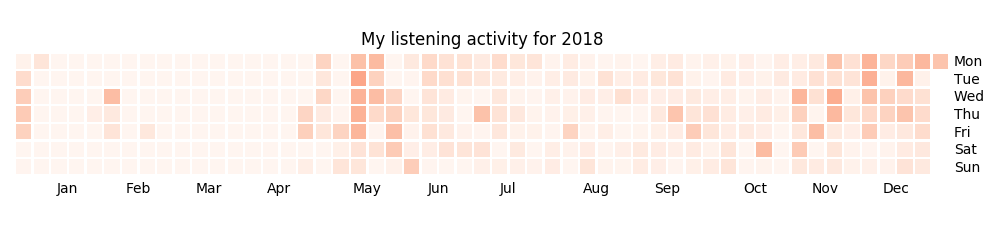
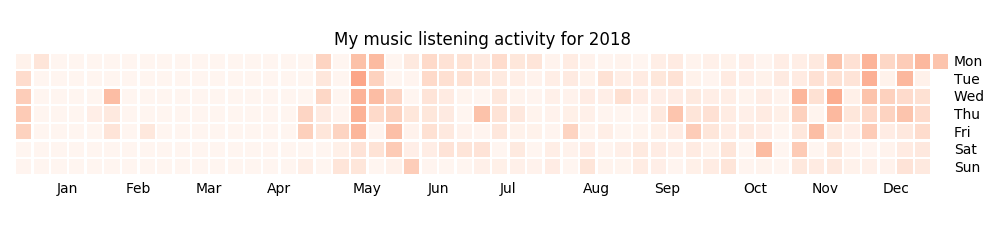
Few minor updates

Changed region(s): [[0.31, 0.1223, 0.651, 0.214]]

diff --git a/quantified-mind.html b/quantified-mind.html
@@ -12,7 +12,7 @@
         <meta name="generator" content="hakyll">
         <meta name="language" content="English">
         
-        <meta name="keywords" content="cognitive quantified-self selenium">
+        <meta name="keywords" content="quantified-self cognitive selenium">
         
         <!-- TODO concat with keywords tags; also need to make comma separated? -->
 
@@ -63,17 +63,24 @@
 
     <section class="content">
     <p><a href="http://www.quantified-mind.com/about">Quantified Mind</a> is a website which provides a handful of cognitive tests. It lets you choose a bunch of tests and you can run them whenever you wish, adding quantitative variables you are measuring alongside (e.g. hours of sleep, or cups of coffee you drank) or just arbitrary notes. <a href="http://quantifiedself.com/wp-content/uploads/2012/04/QM_collage.jpg">Here</a> is how it looks like.</p>
-<p>Why is it interesting? If you are like me and don’t feel much obvious subjective effects of conventional stimulants, sleep or exercise, it would be great to have some objective measure in case the effects are subtle but present. For you it could be saving half an hour of sleep per night by using melatonin, or realizing coffee doesn’t have effect on your cognitive performance, or something else.</p>
-<p>That sounded pretty interesting to me, and I started doing some tests (simple reaction time, visual matching, sorting and 1-back). However, given that effects are subtle in the first place, I wasn’t expecting to get any insights by gazing at collected data, so I needed to make sure I can export my experiments to run some sort of regression on them later.</p>
-<p>To my disappointment, when I ran thirty or something sessions and downloaded the CSV, it didn’t have error rate/reaction time, but you are only getting some magical ‘score’. It was unclear what it meant from the FAQ so I emailed the authors and got a response:</p>
+<p>Why is it interesting? If you are <a href="./tags.html#quantified-self">like me</a> and don’t feel any obvious/significant subjective effects of conventional stimulants, sleep or exercise, it would be great to have some objective measure in case the effects are subtle but present. For you it could be saving half an hour of sleep per night by using melatonin, or realizing coffee doesn’t have effect on your cognitive performance, or something else.</p>
+<p>That sounded pretty interesting to me, and I started taking some tests (simple reaction time, visual matching, sorting and 1-back). However, given that effects are subtle in the first place, I wasn’t expecting to get any insights by gazing at collected data, so I needed to make sure I can export my experiments to run some sort of regression on them later.</p>
+<p>To my disappointment, when I ran thirty or something sessions and exported the CSV, it didn’t have error rate/reaction time, but you are only getting some magical ‘score’. It was unclear what it meant from the FAQ so I emailed the authors and got a response:</p>
 <pre><code>As for scores - it's a calculation that involves everything in a test, so for simple reaction time it involves both reaction times
 and accuracy. 
 The actual formulas aren't available, but the instructions are always simple: go for accuracy first, and try to be as fast as you can
 without sacrificing accuracy.</code></pre>
-<p>“Formulas aren’t available” was quite unsatisfactory to me. What are they actually measuring? So before carrying on and doing more tests I tried to reverse engineer the model.</p>
+<p>“Formulas aren’t available” was quite unsatisfactory to me. What are they actually measuring? So before carrying on and collecting more data I tried to reverse engineer the model.</p>
 <h1 id="implementation">Implementation</h1>
-<p>The idea was simple: choose couple of tests that are easy to automate. Luckily, the website is not using flash and not very heavy on javascript or obfuscation, so interacting with elements via javascript was fairly easy. In essence, I’m varying average reaction time (delay) and number of errors (which I make deliberately in the script), and inject the script into chrome via Selenium. Then I record the scores for further analysis.</p>
-<p>If you wanna experiment by yourself, <a href="https://github.com/karlicoss/qm-reverse-engineering">here’s</a> the repository and if you don’t feel like running the scripts for a day to collect data, I uploaded it to <a href="https://github.com/karlicoss/qm-reverse-engineering/releases">releases</a>.</p>
+<p>The idea was simple: choose couple of tests that are easy to <strong>automate</strong> via Selenium Webdriver. Automation was necessary to collect lots of data corresponding to different input performance characteristics.</p>
+<p>In essence:</p>
+<ul>
+<li>I’m varying <strong>average reaction time</strong> (delay) and <strong>number of errors</strong> (which I make deliberately)</li>
+<li>then I <a href="https://github.com/karlicoss/qm-reverse-engineering/blob/master/js_scripts.py">generate</a> a bit of Javascript and inject it into the browser via Selenium.</li>
+<li>once the automated test session is finished, I recorded the score for further analysis.</li>
+</ul>
+<p>Thankfully, the website is not using flash and is not heavy on obfuscation, so interacting with elements via javascript was fairly easy.</p>
+<p>If you wanna experiment by yourself, <a href="https://github.com/karlicoss/qm-reverse-engineering">here’s</a> the repository and if you don’t feel like running the scripts for a day to collect data, I also uploaded it to <a href="https://github.com/karlicoss/qm-reverse-engineering/releases">releases</a>.</p>
 <h1 id="tests">Tests</h1>
 <p>I’ve chosen “Simple reaction time” and “Visual matching”. From the <a href="http://www.quantified-mind.com/science">“science”</a> section:</p>
 <pre><code>The first is “Simple Reaction Time,” which assesses how quickly a person can respond to a single stimulus (a circle that turns 
@@ -90,12 +97,18 @@ the two grids are identical.</code></pre>
 <h1 id="observations">Observations</h1>
 <ul>
 <li><p>Same score could mean different things; you can see it from the plots if you draw horizontal lines, they would intersect multiple curves corresponding to different delays.</p>
-<p>So, for instance, if you get score 600 on visual matching, that could mean that you did the test with 880ms reaction and 0 errors, or with 840ms reaction and 2 errors or 760ms reaction and 4 errors. These are fairly different results and even though it’s good to have some sort of aggregate score, it’s also useful to distinguish. E.g. maybe caffeine makes you less patient so you press early and make more errors.</p></li>
-<li><p>For low reaction time (&lt;300ms for simple reaction time &lt;600ms for visual matching), the plots don’t look continuous, there are some sudden drops. That’s pretty suspicious IMO.</p>
+<p>So, for instance, if you get score 600 on visual matching, that could mean that you did the test with:</p>
+<ul>
+<li>880ms reaction and 0 errors, or</li>
+<li>840ms reaction and 2 errors, or</li>
+<li>760ms reaction and 4 errors</li>
+</ul>
+<p>These are fairly different results and even though it’s good to have some sort of aggregate score, it’s also useful to distinguish. E.g. maybe caffeine makes you less patient so you press early and make more errors.</p></li>
+<li><p>For low reaction time (&lt;300ms for simple reaction time &lt;600ms for visual matching), the plots <strong>don’t look continuous</strong>, there are some sudden drops. That’s pretty suspicious IMO.</p>
 <p>Perhaps that could explained by the fact that such low times are impossible to get by average humans and they are out of the test domain.</p></li>
-<li><p>If you keep number of error fixed, one would expect that score grows as the reaction time goes does. That is not the case on plots, probably related to the artifact above.</p></li>
-<li><p>If you keep reaction time fixed, you would expect the score to decrease monotonically with the number of errors. You can see that for simple reaction time after 600ms, the score actually monotonically <strong>increases</strong> as you make more errors. Again, one could argue that reaction of 600 ms is too long for average human on this test (e.g. I score about 230), but I can easily imagine drugs (even such as alcohol) resulting in these scores, which could also be interesting to measure.</p></li>
-<li><p>If you think about, 8 (out of 16) errors is what you would get on visual matching if you answer randomly (which you could do with almost arbitrary low reaction time). So if you do that, say, with 400ms delay, according to the plot you would score around 620 points. Which is what I get by doing the test myself with 800ms reaction and making 1 error. So what does the score represent then?</p></li>
+<li><p>If you keep number of errors fixed, one would expect that score grows as the reaction time goes down. That is not the case on plots, probably related to the artifact above.</p></li>
+<li><p>If you keep reaction time fixed, you would expect the score to decrease monotonically with the number of errors. You can see that for simple reaction time after 600ms, the score actually monotonically <strong>increases as you make more errors</strong>. Again, one could argue that reaction of 600 ms is too long for average human on this test (e.g. I score about 230), but I can easily imagine drugs (even such as alcohol) resulting in these scores, which could also be interesting to measure.</p></li>
+<li><p>If you think about, 8 (out of 16) errors is what you would get on visual matching <strong>if you answer completely at random</strong> (which you could do with almost arbitrary low reaction time). So if you do that, say, with 400ms delay, according to the plot you would score around 620 points. Which is what I get by doing the test myself with 800ms reaction and making 1 error. So what does the score represent then?</p></li>
 </ul>
 <h1 id="summary">Summary</h1>
 <p>I can’t see how is that score meaningful and I’m glad I didn’t spend more time doing these tests. Perhaps one is better off measuring reaction time directly instead of some mystical ‘score’.</p>
@@ -105,7 +118,7 @@ the two grids are identical.</code></pre>
 
     
     <section class="footer">
-        <div class="post-tags"><a class="post-tag" href="./tags.html#cognitive">#cognitive</a> <a class="post-tag" href="./tags.html#quantified-self">#quantified-self</a> <a class="post-tag" href="./tags.html#selenium">#selenium</a></div>
+        <div class="post-tags"><a class="post-tag" href="./tags.html#quantified-self">#quantified-self</a> <a class="post-tag" href="./tags.html#cognitive">#cognitive</a> <a class="post-tag" href="./tags.html#selenium">#selenium</a></div>
         <!-- TODO post-date? -->
         <div class="date">06 March 2019</div>
     </section>

diff --git a/orger.html b/orger.html
@@ -92,7 +92,7 @@
 <li><a href="#org0000010">6. What makes Orger good?</a></li>
 <li><a href="#using">7. Using Orger views</a>
 <ul>
-<li><a href="#org0000011">Typical use patterns</a></li>
+<li><a href="#usecases">Typical use patterns</a></li>
 </ul>
 </li>
 <li><a href="#improvements">8. Potential improvements</a>
@@ -103,7 +103,8 @@
 <li><a href="#org0000016"><span class="todo TODO">TODO</span> potential for race condition</a></li>
 </ul>
 </li>
-<li><a href="#org0000018">9. ----</a></li>
+<li><a href="#similar">9. Similar projects</a></li>
+<li><a href="#org0000019">10. ----</a></li>
 </ul>
 </div>
 </div>
@@ -617,36 +618,32 @@ Also the fact that it's a real programming language rather than some YAML config
 <h2 id="using"><a class="headerlink" href="#using">¶</a><span class="section-number-2">7</span> Using Orger views</h2>
 <div class="outline-text-2" id="text-using">
 <p>
-Apart from, obviously, opening org mode file in your favorite text editor, one major strength of this system is being able to search over them.
+Apart from, obviously, opening org mode file in your favorite text editor, one major strength of this system is being able to effortlessly search over them. 
 </p>
 <p>
-I'll write about my setup separately at some point, but for now I'll give a quick summary and clues.
-</p>
-<p>
-On my desktop I'm just using spacemacs or <a href="https://github.com/karlicoss/cloudmacs">cloudmacs</a> from web browser.
+I'm writing extensively about my information search setup <a href="./pkm-search.html#personal_information">here</a>. In summary:
 </p>
 <ul class="org-ul">
-<li>I'm usually just using <a href="https://github.com/syohex/emacs-helm-ag">helm-ag</a> with <a href="https://github.com/BurntSushi/ripgrep">ripgrep</a> (your can find how to marry them <a href="https://gist.github.com/pesterhazy/fabd629fbb89a6cd3d3b92246ff29779">here</a>).</li>
-<li>sometimes <a href="https://github.com/emacsorphanage/helm-swoop">helm-swoop</a> is very convenient, especially <samp class="inline">helm-multi-swoop</samp> function.</li>
+<li>on my desktop I'm just using spacemacs or <a href="https://github.com/karlicoss/cloudmacs">cloudmacs</a> from web browser</li>
+<li>in Emacs, I'm usually just using <a href="https://github.com/syohex/emacs-helm-ag">helm-ag</a> with <a href="https://github.com/BurntSushi/ripgrep">ripgrep</a></li>
+<li>sometimes <a href="https://github.com/emacsorphanage/helm-swoop">helm-swoop</a> is very convenient</li>
+<li><a href="https://orgmode.org/manual/Matching-tags-and-properties.html"><samp class="inline">org-tags-view</samp></a> or <a href="https://github.com/alphapapa/org-ql#helm-org-ql"><samp class="inline">helm-org-ql</samp></a> for structured Org-mode search</li>
+<li>I've got hotkeys set up that invoke Emacs window with search prompt in a blink</li>
 </ul>
 <p>
-These two are incremental (instant feedback) and effectively instantaneous. For more structured search you could use:
+On my phone I'm using:
 </p>
 <ul class="org-ul">
-<li>good old <a href="https://orgmode.org/manual/Matching-tags-and-properties.html"><samp class="inline">org-tags-view</samp></a></li>
-<li>org-ql with <a href="https://github.com/alphapapa/org-ql#helm-org-ql"><samp class="inline">helm-org-ql</samp></a> is a nicer and incremental alternative</li>
+<li><a href="https://github.com/orgzly/orgzly-android">orglzy</a> for structured search/viewing Org-mode files</li>
+<li><a href="https://play.google.com/store/apps/details?id=com.docsearch.pro">Docsearch +</a> for</li>
 </ul>
-<p>
-On my Android phone I'm using <a href="https://github.com/orgzly/orgzly-android">orglzy</a> for structured search/viewing Org-mode files. 
-Sometimes <a href="https://play.google.com/store/apps/details?id=com.docsearch.pro">Docsearch +</a> is also useful, which is indexing plaintext files and lets you search in them. While it's not tailored for org-mode files, it's usually good enough for me.
-</p>
 <p>
 You can also set up some proper indexing daemon like <a href="https://www.lesbonscomptes.com/recoll">recoll</a>.
 </p>
 </div>
 <div class="outline-3" id="outline-container-org0000011">
-<h3 id="org0000011"><a class="headerlink" href="#org0000011">¶</a>Typical use patterns</h3>
-<div class="outline-text-3" id="text-org0000011">
+<h3 id="usecases"><a class="headerlink" href="#usecases">¶</a>Typical use patterns</h3>
+<div class="outline-text-3" id="text-usecases">
 <p>
 I'll just give some of my use cases:
 </p>
@@ -719,8 +716,27 @@ Also I run Orger jobs at night (via cron) so it's quite unlikely to overlap with
 </div>
 </div>
 <div class="outline-2" id="outline-container-org0000018">
-<h2 id="org0000018"><a class="headerlink" href="#org0000018">¶</a><span class="section-number-2">9</span> ----</h2>
-<div class="outline-text-2" id="text-9">
+<h2 id="similar"><a class="headerlink" href="#similar">¶</a><span class="section-number-2">9</span> Similar projects</h2>
+<div class="outline-text-2" id="text-similar">
+<ul class="org-ul">
+<li><p>
+<a href="https://github.com/novoid/Memacs">Memacs</a> by Karl Voit.
+</p>
+<p>
+I only discovered it after I released Orger, so frankly haven't got to try it yet! It looks very similar in terms of goals and seems we can cooperate on rendering parts at least. 
+</p>
+<p>
+One (as I see it) big advantage of my setup is that data providers are abstracted away in <code class="inline">my.</code> package, which makes everything more modular and resilient. However Memacs seems to be flexible as well, so it can be used with e.g. <code class="inline">my.</code> package as well.
+</p>
+<p>
+If someone compares Memacs and Orger please let me know, I'd be happy to link it! It would also be more objective than comparison by myself!
+</p></li>
+</ul>
+</div>
+</div>
+<div class="outline-2" id="outline-container-org0000019">
+<h2 id="org0000019"><a class="headerlink" href="#org0000019">¶</a><span class="section-number-2">10</span> ----</h2>
+<div class="outline-text-2" id="text-10">
 <p>
 I'd be interesting in hearing your thoughts or feature requests.
 </p>

diff --git a/mypkg.html b/mypkg.html
@@ -90,16 +90,16 @@
 <li><a href="#org0000009">separate data retrieval and data access</a></li>
 </ul>
 </li>
-<li><a href="#org0000012">7. Using it for other tools</a>
+<li><a href="#org0000012">7. Using the package</a>
 <ul>
-<li><a href="#org000000b">orger</a></li>
+<li><a href="#org000000b">Orger, tool to convert data into readable and searchable Org-mode views</a></li>
 <li><a href="#org000000e">various tag:quantified-self dashboards</a></li>
-<li><a href="#org000000f">promnesia</a></li>
+<li><a href="#org000000f"><span class="todo TODO">TODO</span> promnesia</a></li>
 <li><a href="#org0000010"><span class="todo TODO">TODO</span> timeline  tag:timeline</a></li>
 <li><a href="#org0000011">easy interactive querying (see example)</a></li>
 </ul>
 </li>
-<li><a href="#examples">8. Example usecases</a>
+<li><a href="#examples">8. Other usecases</a>
 <ul>
 <li><a href="#lastfm">What were my music listening stats for 2018?</a></li>
 <li><a href="#hypothesis_stats">What are the most interesting Slate Star Codex posts I've read?</a></li>
@@ -107,6 +107,7 @@
 <li><a href="#kobo_progress">Book reading progress</a></li>
 </ul>
 </li>
+<li><a href="#similar">9. Similar projects/setups</a></li>
 </ul>
 </div>
 </div>
@@ -177,11 +178,14 @@ I'm not quite sure how to make it easier
 </div>
 </div>
 <div class="outline-2" id="outline-container-org0000012">
-<h2 id="org0000012"><a class="headerlink" href="#org0000012">¶</a><span class="section-number-2">7</span> Using it for other tools</h2>
+<h2 id="org0000012"><a class="headerlink" href="#org0000012">¶</a><span class="section-number-2">7</span> Using the package</h2>
 <div class="outline-text-2" id="text-7">
+<p>
+Mainly I use it to provider data for my automated scripts, tools and dashboards.
+</p>
 </div>
 <div class="outline-3" id="outline-container-org000000b">
-<h3 id="org000000b"><a class="headerlink" href="#org000000b">¶</a>orger</h3>
+<h3 id="org000000b"><a class="headerlink" href="#org000000b">¶</a><a href="file:///orger.html">Orger</a>, tool to convert data into readable and searchable Org-mode views</h3>
 </div>
 <div class="outline-3" id="outline-container-org000000e">
 <h3 id="org000000e"><a class="headerlink" href="#org000000e">¶</a>various <a class="post-tag" href="./tags.html#quantified-self">#quantified-self</a> dashboards</h3>
@@ -195,7 +199,7 @@ I'm not quite sure how to make it easier
 </div>
 </div>
 <div class="outline-3" id="outline-container-org000000f">
-<h3 id="org000000f"><a class="headerlink" href="#org000000f">¶</a><a href="https://github.com/karlicoss/promnesia">promnesia</a></h3>
+<h3 id="org000000f"><a class="headerlink" href="#org000000f">¶</a><span class="todo TODO">TODO</span> <a href="https://github.com/karlicoss/promnesia">promnesia</a></h3>
 </div>
 <div class="outline-3" id="outline-container-org0000010">
 <h3 id="org0000010"><a class="headerlink" href="#org0000010">¶</a><span class="todo TODO">TODO</span> timeline  <a class="post-tag" href="./tags.html#timeline">#timeline</a></h3>
@@ -205,7 +209,7 @@ I'm not quite sure how to make it easier
 </div>
 </div>
 <div class="outline-2" id="outline-container-org0000017">
-<h2 id="examples"><a class="headerlink" href="#examples">¶</a><span class="section-number-2">8</span> Example usecases</h2>
+<h2 id="examples"><a class="headerlink" href="#examples">¶</a><span class="section-number-2">8</span> Other usecases</h2>
 <div class="outline-text-2" id="text-examples">
 <p>
 Also see <a href="https://github.com/karlicoss/my#usage-examples">readme</a> for <samp class="inline">my.</samp> package.
@@ -251,7 +255,7 @@ dt
 2010-08-22 16:22:41  The Rolling Stones — You Can't Always Get What...
 </pre>
 <p>
-We can use <a href="https://github.com/martijnvermaat/calmap">calmap</a> library to plot a github-style listening activity map:
+We can use <a href="https://github.com/martijnvermaat/calmap">calmap</a> library to plot a github-style music listening activity heatmap:
 </p>
 <div class="org-src-container">
 <pre class="src src-python"><span class="org-keyword">import</span> calmap
@@ -259,7 +263,7 @@ We can use <a href="https://github.com/martijnvermaat/calmap">calmap</a> library
 plt.figure(figsize=(10, 2.3))
 calmap.yearplot(cdf[<span class="org-string">'track'</span>], how=<span class="org-string">'count'</span>, year=2018)
 plt.tight_layout()
-plt.title(<span class="org-string">'My listening activity for 2018'</span>)
+plt.title(<span class="org-string">'My music listening activity for 2018'</span>)
 <span class="org-variable-name">plot_file</span> = <span class="org-string">'lastfm_2018.png'</span>
 plt.savefig(plot_file)
 plot_file
@@ -388,6 +392,14 @@ Started : 20 Aug 2018 21:16
 Finished: 16 Sep 2018 07:26
 </pre>
 </div>
+</div>
+</div>
+<div class="outline-2" id="outline-container-org0000018">
+<h2 id="similar"><a class="headerlink" href="#similar">¶</a><span class="section-number-2">9</span> Similar projects/setups</h2>
+<div class="outline-text-2" id="text-similar">
+<ul class="org-ul">
+<li><a href="https://github.com/markwk/qs_ledger">QS ledger</a> from Mark Koester</li>
+</ul>
 </div>
 </div>
 

diff --git a/recycling-is-hard.html b/recycling-is-hard.html
@@ -64,7 +64,7 @@
     <section class="content">
     <p>Even since I moved to the UK I’ve of course been separating waste. I wasn’t ever questioning the positive value of recycling or suspecting it could be a conspiracy designed to drain my time or anything along that line. In many ways it’s even easier since you can pile up plastic/cardboard/glass and just throw it away in bulk, and have a smaller food waste bin. I was never too crazy about it though, so I never bothered recycling every last bit of material that I possibly could.</p>
 <p>Recently though I started wondering if I should be more efficient at recycling, so I googled for a bit, and … got nowhere.</p>
-<p>For instance, one of my fluorescent light bulbs died. It’s not recycled by the council, so can’t be put in the recycling dumpster. Apparently it also contains mercury and shouldn’t be put in general waste either. The closest recycling facility that accepts energy efficient bulbs is 15 mins from me by tube. The question is — disregarding that I don’t feel like spending half an hour in transport to recycle couple of light bulbs: is it more efficient for the planet if instead of going there I just spend that time on my high paying job and donate the money. I seriously suspect that recycling a bulb is <a href="https://en.wikipedia.org/wiki/Effective_altruism">not the most environmentally efficient thing I can do with my skills</a>. <strong>How much environmental impact in terms of pure dollars of damage does a light bulb have anyway?</strong> Sadly, I didn’t manage to find any specific numbers.</p>
+<p>For instance, one of my fluorescent light bulbs died. It’s not recycled by the council, so can’t be put in the recycling dumpster. Apparently it also contains mercury and shouldn’t be put in general waste either. The closest recycling facility that accepts energy efficient bulbs is 15 mins from me by tube. The question is — disregarding that I don’t feel like spending half an hour in transport to recycle couple of light bulbs: is it more efficient for the planet if instead of going there I just spend that time on my job and donate the money? I seriously suspect that recycling a bulb is not the most environmentally efficient thing <a href="https://en.wikipedia.org/wiki/Effective_altruism">I can do with my skills</a>. <strong>How much environmental impact in terms of pure dollars of damage does a light bulb have anyway?</strong> Sadly, I didn’t manage to find any specific numbers.</p>
 <p>Another thing that puzzled me: <strong>is it worth washing a soiled plastic container before recycling?</strong> You’re wasting hot water and detergents after all, which also has some environmental impact (also your time if you wash manually). The internet gives confusing answers, starting from people who put their greasy plastic in dishwasher to suggestions to only give a quick rinse. I can’t understand how rinsing without washing helps against attracting bacteria and greasing paper in mixed recycling. Couldn’t google anything meaningful either.</p>
 <p>Interesting enough, while looking that up, I ran into many discussions of using paper plates vs washing ceramic plates — apparently it’s unclear which is more environmental! <a href="https://sustainability.stackexchange.com/a/6020">Here’s</a> an example calculation which gives <code>$0.78</code> vs <code>$0.63</code>, the difference I find pretty marginal. Generally all over the place the answer seems to be “it depends on your detergent, electricity source, etc”. <strong>How is an average person meant to figure that out?</strong></p>
 <p>Lastly, it’s not even clear which <a href="https://www.pureplanetrecycling.co.uk/types-of-plastics/">types of plastic</a> materials you can recycle. For instance, my <a href="https://www.towerhamlets.gov.uk/lgnl/environment_and_waste/recycling_and_waste/a-z_recycling_guide.aspx">council’s website</a> has no mention of specific materials whatsoever, only ‘trays’, ‘yogurt pots’ and ‘bags’.</p>

diff --git a/lagrangians.html b/lagrangians.html
@@ -641,7 +641,7 @@ So, over the course of the following function I'm gonna communicate with you via
 
 
 <div class="output_subarea output_stream output_stdout output_text">
-<pre>{'no_of_equation': 2, 'eq': [-p(t) + Derivative(q(t), t), q(t) + Derivative(p(t), t)], 'func': [q(t), p(t)], 'order': {q(t): 1, p(t): 1}, 'func_coeff': {(0, q(t), 0): 0, (0, q(t), 1): 1, (0, p(t), 0): -1, (0, p(t), 1): 0, (1, q(t), 0): 1, (1, q(t), 1): 0, (1, p(t), 0): 0, (1, p(t), 1): 1}, 'is_linear': True, 'type_of_equation': 'type1'}
+<pre>{'no_of_equation': 2, 'eq': [-p(t) + Derivative(q(t), t), q(t) + Derivative(p(t), t)], 'func': [q(t), p(t)], 'order': {p(t): 1, q(t): 1}, 'func_coeff': {(0, q(t), 0): 0, (0, q(t), 1): 1, (0, p(t), 0): -1, (0, p(t), 1): 0, (1, q(t), 0): 1, (1, q(t), 1): 0, (1, p(t), 0): 0, (1, p(t), 1): 1}, 'is_linear': True, 'type_of_equation': 'type1'}
 </pre>
 </div>
 </div>
@@ -809,7 +809,7 @@ So, over the course of the following function I'm gonna communicate with you via
 
 
 <div class="output_subarea output_stream output_stdout output_text">
-<pre>{'no_of_equation': 2, 'eq': [-p(t) + Derivative(q(t), t), -q(t) + Derivative(p(t), t)], 'func': [q(t), p(t)], 'order': {q(t): 1, p(t): 1}, 'func_coeff': {(0, q(t), 0): 0, (0, q(t), 1): 1, (0, p(t), 0): -1, (0, p(t), 1): 0, (1, q(t), 0): -1, (1, q(t), 1): 0, (1, p(t), 0): 0, (1, p(t), 1): 1}, 'is_linear': True, 'type_of_equation': 'type1'}
+<pre>{'no_of_equation': 2, 'eq': [-p(t) + Derivative(q(t), t), -q(t) + Derivative(p(t), t)], 'func': [q(t), p(t)], 'order': {p(t): 1, q(t): 1}, 'func_coeff': {(0, q(t), 0): 0, (0, q(t), 1): 1, (0, p(t), 0): -1, (0, p(t), 1): 0, (1, q(t), 0): -1, (1, q(t), 1): 0, (1, p(t), 0): 0, (1, p(t), 1): 1}, 'is_linear': True, 'type_of_equation': 'type1'}
 </pre>
 </div>
 </div>
@@ -1160,7 +1160,7 @@ So, over the course of the following function I'm gonna communicate with you via
 
 
 <div class="output_subarea output_stream output_stdout output_text">
-<pre>{'no_of_equation': 2, 'eq': [-p(t)/q(t)**2 + Derivative(q(t), t), -p(t)**2/q(t)**3 + Derivative(p(t), t)], 'func': [q(t), p(t)], 'order': {q(t): 1, p(t): 1}, 'func_coeff': {(0, q(t), 0): 0, (0, q(t), 1): 1, (0, p(t), 0): -1/q(t)**2, (0, p(t), 1): 0, (1, q(t), 0): 0, (1, q(t), 1): 0, (1, p(t), 0): 0, (1, p(t), 1): 1}, 'is_linear': False, 'type_of_equation': 'type3'}
+<pre>{'no_of_equation': 2, 'eq': [-p(t)/q(t)**2 + Derivative(q(t), t), -p(t)**2/q(t)**3 + Derivative(p(t), t)], 'func': [q(t), p(t)], 'order': {p(t): 1, q(t): 1}, 'func_coeff': {(0, q(t), 0): 0, (0, q(t), 1): 1, (0, p(t), 0): -1/q(t)**2, (0, p(t), 1): 0, (1, q(t), 0): 0, (1, q(t), 1): 0, (1, p(t), 0): 0, (1, p(t), 1): 1}, 'is_linear': False, 'type_of_equation': 'type3'}
 </pre>
 </div>
 </div>
@@ -1454,7 +1454,7 @@ TODO huh? wolfram is solving it in complex numbers... <a href="https://www.wolfr
 
 
 <div class="output_subarea output_stream output_stdout output_text">
-<pre>{'no_of_equation': 2, 'eq': [-log(p(t)) + Derivative(q(t), t), 2*q(t) + Derivative(p(t), t)], 'func': [q(t), p(t)], 'order': {q(t): 1, p(t): 1}, 'func_coeff': {(0, q(t), 0): 0, (0, q(t), 1): 1, (0, p(t), 0): 0, (0, p(t), 1): 0, (1, q(t), 0): 2, (1, q(t), 1): 0, (1, p(t), 0): 0, (1, p(t), 1): 1}, 'is_linear': False, 'type_of_equation': 'type3'}
+<pre>{'no_of_equation': 2, 'eq': [-log(p(t)) + Derivative(q(t), t), 2*q(t) + Derivative(p(t), t)], 'func': [q(t), p(t)], 'order': {p(t): 1, q(t): 1}, 'func_coeff': {(0, q(t), 0): 0, (0, q(t), 1): 1, (0, p(t), 0): 0, (0, p(t), 1): 0, (1, q(t), 0): 2, (1, q(t), 1): 0, (1, p(t), 0): 0, (1, p(t), 1): 1}, 'is_linear': False, 'type_of_equation': 'type3'}
 </pre>
 </div>
 </div>

diff --git a/spinning-hr-analysis.html b/spinning-hr-analysis.html
@@ -431,8 +431,8 @@
 Dep. Variable:                  watts   R-squared:                       0.982
 Model:                            OLS   Adj. R-squared:                  0.981
 Method:                 Least Squares   F-statistic:                     2109.
-Date:                Thu, 14 Nov 2019   Prob (F-statistic):           1.43e-35
-Time:                        23:47:15   Log-Likelihood:                -138.70
+Date:                Fri, 15 Nov 2019   Prob (F-statistic):           1.43e-35
+Time:                        08:10:17   Log-Likelihood:                -138.70
 No. Observations:                  41   AIC:                             281.4
 Df Residuals:                      39   BIC:                             284.8
 Df Model:                           1                                         
@@ -611,8 +611,8 @@ I don't think it can be explained by friction either: if anything, friction woul
 Dep. Variable:                  watts   R-squared:                       0.924
 Model:                            OLS   Adj. R-squared:                  0.923
 Method:                 Least Squares   F-statistic:                     952.2
-Date:                Thu, 14 Nov 2019   Prob (F-statistic):           1.82e-45
-Time:                        23:47:15   Log-Likelihood:                -352.79
+Date:                Fri, 15 Nov 2019   Prob (F-statistic):           1.82e-45
+Time:                        08:10:17   Log-Likelihood:                -352.79
 No. Observations:                  80   AIC:                             709.6
 Df Residuals:                      78   BIC:                             714.3
 Df Model:                           1                                         

diff --git a/index.html b/index.html
@@ -268,7 +268,7 @@
     </tr>
     <!-- TODO careful with colspan -->
     <tr>
-        <td class="post-tags"><a class="post-tag" href="./tags.html#cognitive">cognitive</a> <a class="post-tag" href="./tags.html#quantified-self">quantified-self</a> <a class="post-tag" href="./tags.html#selenium">selenium</a></td>
+        <td class="post-tags"><a class="post-tag" href="./tags.html#quantified-self">quantified-self</a> <a class="post-tag" href="./tags.html#cognitive">cognitive</a> <a class="post-tag" href="./tags.html#selenium">selenium</a></td>
     </tr>
 
     

diff --git a/sandbox/Test.html b/sandbox/Test.html
@@ -230,7 +230,7 @@
 
 
 <div class="output_text output_subarea output_execute_result">
-<pre>&lt;seaborn.axisgrid.FacetGrid at 0x7fa1777656d8&gt;</pre>
+<pre>&lt;seaborn.axisgrid.FacetGrid at 0x7fb0a6201710&gt;</pre>
 </div>
 
 </div>

diff --git a/css/default.css b/css/default.css
@@ -311,3 +311,8 @@ a code.inline {
     text-decoration: underline;
 }
 /* end */
+
+
+details summary {
+    cursor: pointer;
+}
